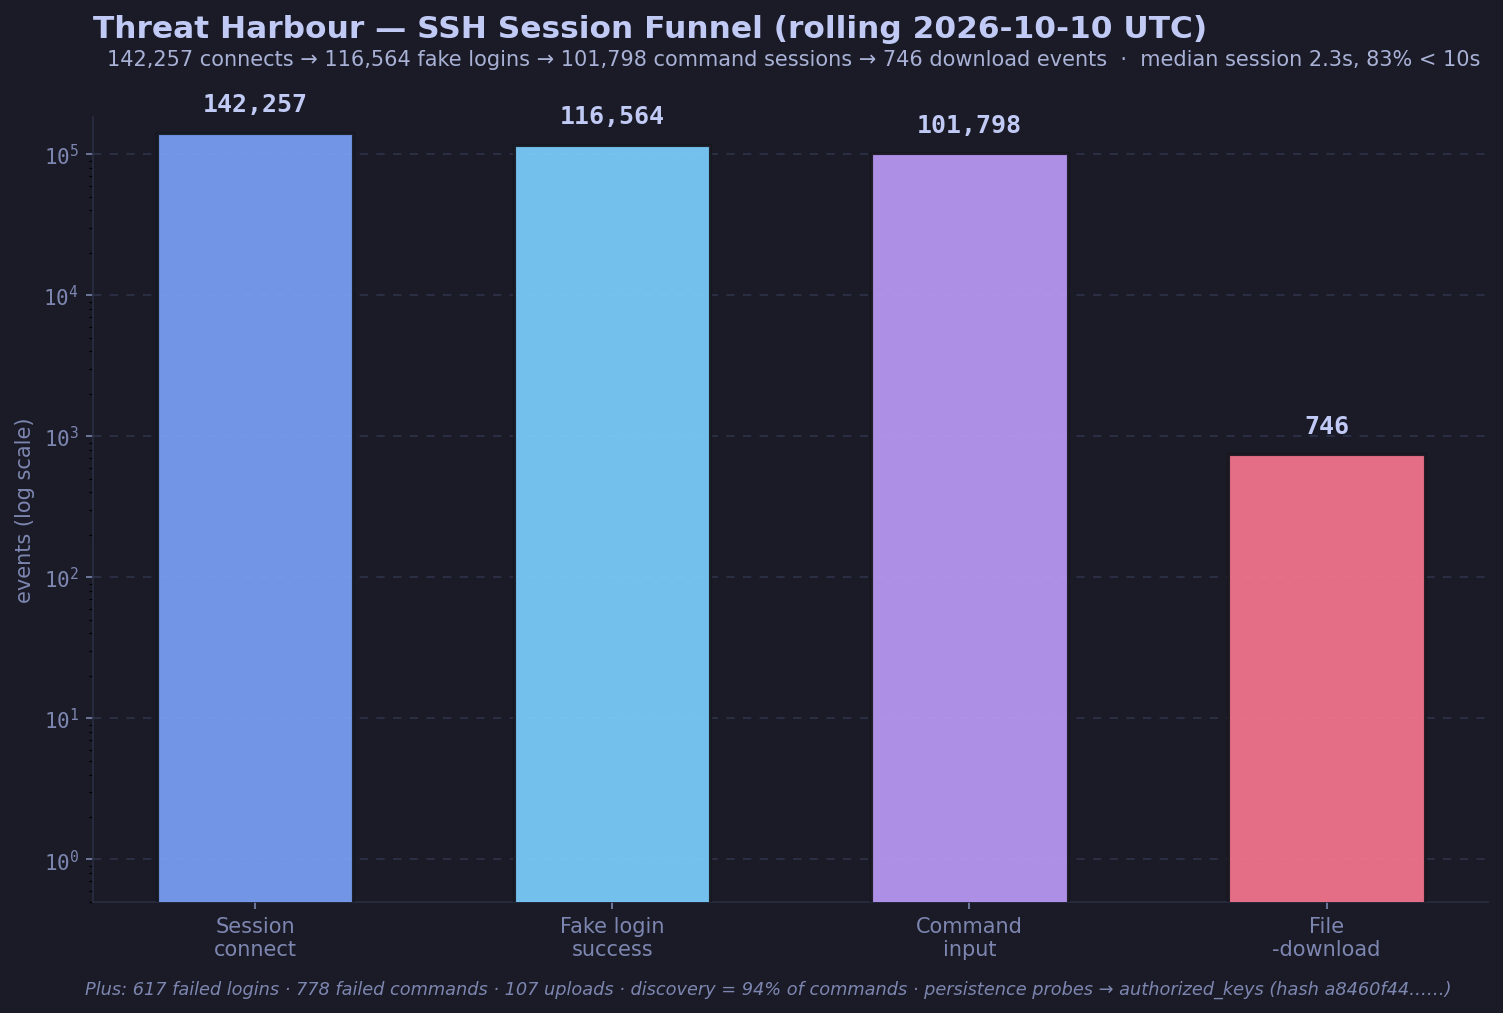
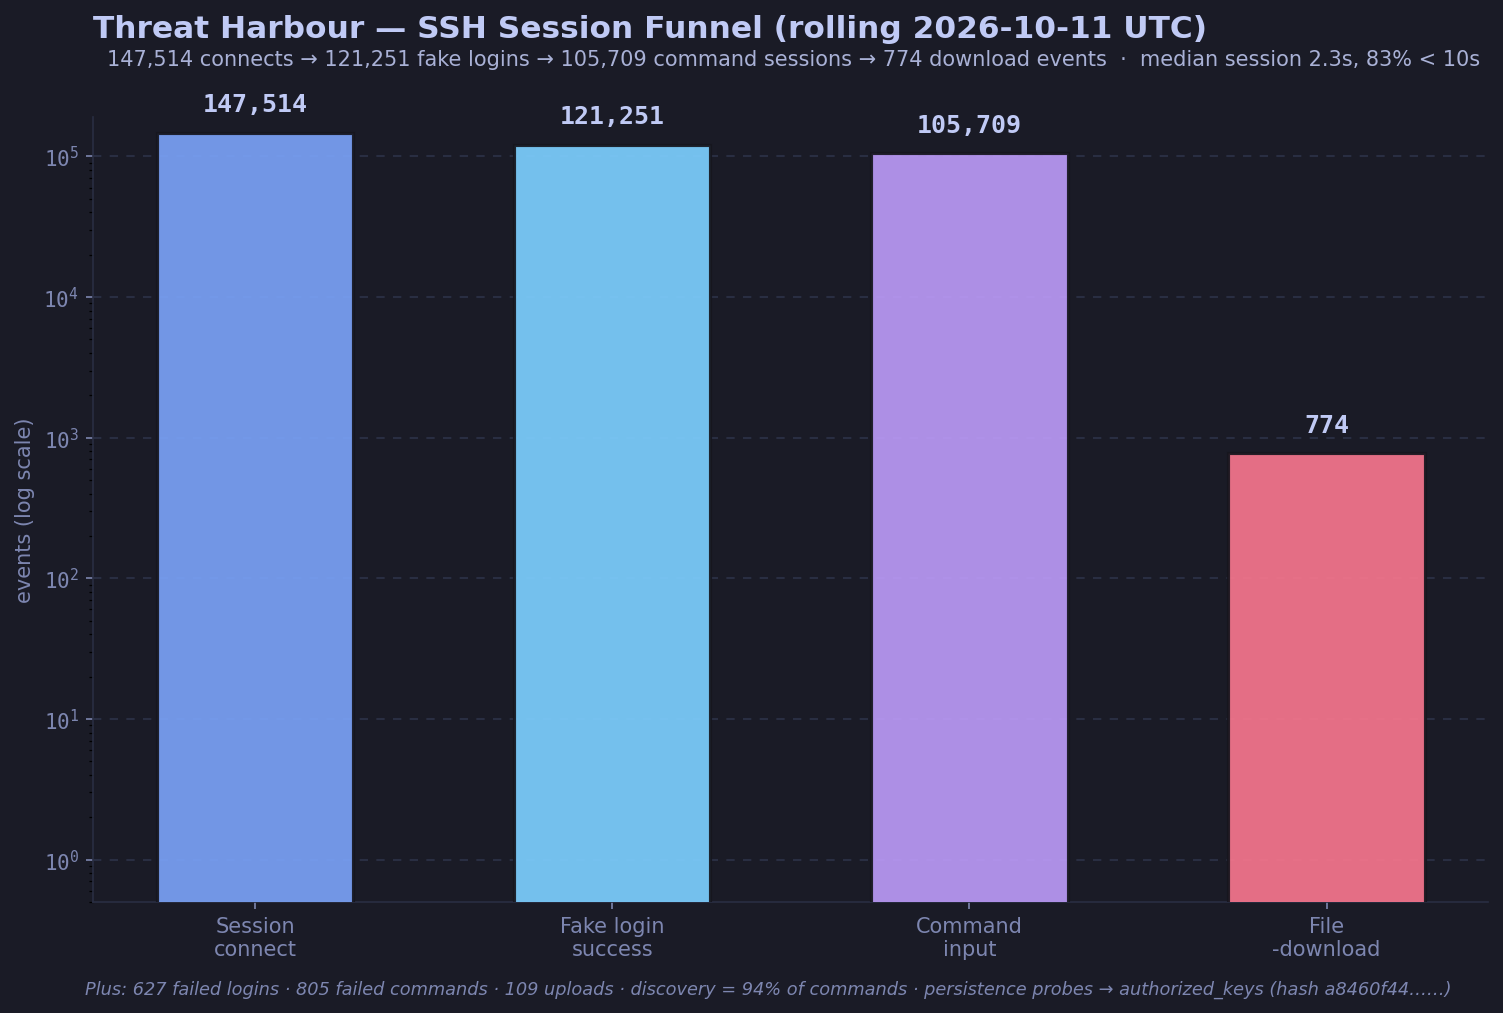
Daily metrics: 1,039,108 events (automated)

diff --git a/analysis/summary.md b/analysis/summary.md
@@ -1,13 +1,13 @@
-# Analysis summary (rolling snapshot, cutoff 2026-10-10T04:47:55Z)
+# Analysis summary (rolling snapshot, cutoff 2026-10-11T04:33:03Z)
 
 Sensor is **still running** — this file regenerates every 24 hours.
 Observation: `2026-08-27` → `ongoing`. Numbers below are a snapshot at
-`2026-10-10T04:47:55Z` (1,000,239 events).
+`2026-10-11T04:33:03Z` (1,039,108 events).
 
 ## Source
 
 - Cowrie JSONL on sensor: `/home/jack/honeypot/var/log/cowrie/cowrie.json*`
-  (45 files, 9 malformed lines) — the same files Promtail ships to Loki
+  (46 files, 9 malformed lines) — the same files Promtail ships to Loki
   (`job="cowrie"`).
 - Parser: `scripts/parse_remote.py` (stdlib only, deployed fresh each run);
   renderer: `scripts/render.py`. Aggregates only. Raw logs stay on the
@@ -17,22 +17,21 @@ Observation: `2026-08-27` → `ongoing`. Numbers below are a snapshot at
 
 | Metric | Value |
 |---|---|
-| Total events | 1,000,239 |
-| Unique source IPs | 5,522 |
-| Sessions (`cowrie.session.connect`) | 142,257 |
-| SSH events | 1,000,239 (100%) |
-| Fake successful logins (`cowrie.login.success`) | 116,564 |
-| Failed logins | 617 |
-| Command-input events | 101,798 (+778 `command.failed`) |
-| File-download events | 746 |
-| File-upload events | 107 |
-| Session duration median (n=142,036 matched close) | 2.3s; 118,047 < 10s; max ~18,022s |
+| Total events | 1,039,108 |
+| Unique source IPs | 5,614 |
+| Sessions (`cowrie.session.connect`) | 147,514 |
+| SSH events | 1,039,108 (100%) |
+| Fake successful logins (`cowrie.login.success`) | 121,251 |
+| Failed logins | 627 |
+| Command-input events | 105,709 (+805 `command.failed`) |
+| File-download events | 774 |
+| File-upload events | 109 |
+| Session duration median (n=147,293 matched close) | 2.3s; 122,860 < 10s; max ~18,022s |
 
 ## Events per UTC day
 
 | Day (UTC) | Events |
 |---|---|
-| `2026-09-11` | 3,711 |
 | `2026-09-12` | 3,333 |
 | `2026-09-13` | 6,459 |
 | `2026-09-14` | 3,525 |
@@ -61,10 +60,11 @@ Observation: `2026-08-27` → `ongoing`. Numbers below are a snapshot at
 | `2026-10-07` | 43,716 |
 | `2026-10-08` | 64,154 |
 | `2026-10-09` | 57,818 |
-| `2026-10-10` | 3,436 |
+| `2026-10-10` | 28,596 |
+| `2026-10-11` | 13,709 |
 
 <details>
-<summary>Older days (15 days, click to expand)</summary>
+<summary>Older days (16 days, click to expand)</summary>
 
 | Day (UTC) | Events |
 |---|---|
@@ -83,67 +83,68 @@ Observation: `2026-08-27` → `ongoing`. Numbers below are a snapshot at
 | `2026-09-08` | 44,543 |
 | `2026-09-09` | 23,409 |
 | `2026-09-10` | 44,701 |
+| `2026-09-11` | 3,711 |
 
 </details>
 
-`2026-10-10` is partial at cutoff — do not annualize.
+`2026-10-11` is partial at cutoff — do not annualize.
 
 ### Top usernames
 
 | # | Value | Tries |
 |---|---|---|
-| 1 | `root` | 41,472 |
-| 2 | `ubuntu` | 5,889 |
-| 3 | `admin` | 3,607 |
-| 4 | `user` | 2,235 |
-| 5 | `deploy` | 1,219 |
-| 6 | `test` | 1,015 |
-| 7 | `user1` | 619 |
-| 8 | `345gs5662d34` | 617 |
-| 9 | `claude` | 564 |
-| 10 | `debian` | 513 |
+| 1 | `root` | 42,515 |
+| 2 | `ubuntu` | 6,159 |
+| 3 | `admin` | 3,692 |
+| 4 | `user` | 2,287 |
+| 5 | `deploy` | 1,242 |
+| 6 | `test` | 1,036 |
+| 7 | `345gs5662d34` | 641 |
+| 8 | `user1` | 631 |
+| 9 | `claude` | 574 |
+| 10 | `debian` | 523 |
 
 ### Top passwords
 
 | # | Value | Tries |
 |---|---|---|
-| 1 | `123456` | 4,469 |
-| 2 | `1234` | 2,496 |
-| 3 | `123` | 2,193 |
-| 4 | `admin` | 1,421 |
-| 5 | `12345678` | 1,222 |
-| 6 | `1` | 1,092 |
-| 7 | `password` | 978 |
-| 8 | `12345` | 909 |
-| 9 | `root` | 902 |
-| 10 | `123456789` | 729 |
+| 1 | `123456` | 4,555 |
+| 2 | `1234` | 2,558 |
+| 3 | `123` | 2,243 |
+| 4 | `admin` | 1,465 |
+| 5 | `12345678` | 1,250 |
+| 6 | `1` | 1,115 |
+| 7 | `password` | 996 |
+| 8 | `12345` | 933 |
+| 9 | `root` | 920 |
+| 10 | `123456789` | 747 |
 
 ### Top commands
 
 | # | Value | Tries |
 |---|---|---|
-| 1 | `uname -s -v -n -r -m` | 86,811 |
-| 2 | `export PATH=/usr/local/sbin:/usr/local/bin:/usr/sbin:/usr/bi…` | 2,084 |
-| 3 | `hostname` | 1,739 |
-| 4 | `/bin/./uname -s -v -n -r -m` | 1,626 |
-| 5 | `uname -a` | 986 |
-| 6 | `whoami` | 798 |
+| 1 | `uname -s -v -n -r -m` | 90,391 |
+| 2 | `export PATH=/usr/local/sbin:/usr/local/bin:/usr/sbin:/usr/bi…` | 2,189 |
+| 3 | `hostname` | 1,750 |
+| 4 | `/bin/./uname -s -v -n -r -m` | 1,715 |
+| 5 | `uname -a` | 1,002 |
+| 6 | `whoami` | 806 |
 | 7 | `export PATH=/usr/local/sbin:/usr/local/bin:/usr/sbin:/usr/bi…` | 722 |
-| 8 | `cd ~; chattr -ia .ssh; lockr -ia .ssh` | 658 |
-| 9 | `cd ~ && rm -rf .ssh && mkdir .ssh && echo "ssh-rsa AAAAB3Nza…` | 637 |
-| 10 | `pwd` | 629 |
+| 8 | `cd ~; chattr -ia .ssh; lockr -ia .ssh` | 682 |
+| 9 | `cd ~ && rm -rf .ssh && mkdir .ssh && echo "ssh-rsa AAAAB3Nza…` | 661 |
+| 10 | `pwd` | 633 |
 
 ### Command categories
 
 | Category | Events |
 |---|---|
-| `destructive` | 3,532 |
-| `discovery` | 96,086 |
-| `downloader` | 37 |
+| `destructive` | 3,663 |
+| `discovery` | 99,826 |
+| `downloader` | 39 |
 | `empty` | 7 |
-| `other` | 1,158 |
-| `persistence-privilege` | 47 |
-| `shell-exec` | 931 |
+| `other` | 1,189 |
+| `persistence-privilege` | 49 |
+| `shell-exec` | 936 |
 
 ## Limitations that shape these numbers
 

diff --git a/README.md b/README.md
@@ -19,28 +19,28 @@ Use it to:
 No attribution, no hype — just counts of what hit the sensor, refreshed daily.
 
 <!-- METRICS:START -->
-## Collected Data — refreshed every 24 hours (last run `2026-10-10 UTC`)
+## Collected Data — refreshed every 24 hours (last run `2026-10-11 UTC`)
 
 `2026-08-27` → `ongoing` · Cowrie `3.0.13` · SSH-only · `ap-hyderabad-1`.
 
 | Total events | Unique IPs | Sessions | Fake logins | Commands | Downloads (+uploads) |
 |---|---|---|---|---|---|
-| `1,000,239` | `5,522` | `142,257` | `116,564` / 617 failed | `101,798` (+778 failed) | `746` (+107 uploads) |
+| `1,039,108` | `5,614` | `147,514` | `121,251` / 627 failed | `105,709` (+805 failed) | `774` (+109 uploads) |
 
 | # | Top username | Top password | Top command |
 |---|---|---|---|
-| 1 | `root` (41,472) | `123456` (4,469) | `uname -s -v -n -r -m` (86,811) |
-| 2 | `ubuntu` (5,889) | `1234` (2,496) | `export PATH=/usr/local/sbin:/usr/local/b…` (2,084) |
-| 3 | `admin` (3,607) | `123` (2,193) | `hostname` (1,739) |
-| 4 | `user` (2,235) | `admin` (1,421) | `/bin/./uname -s -v -n -r -m` (1,626) |
-| 5 | `deploy` (1,219) | `12345678` (1,222) | `uname -a` (986) |
+| 1 | `root` (42,515) | `123456` (4,555) | `uname -s -v -n -r -m` (90,391) |
+| 2 | `ubuntu` (6,159) | `1234` (2,558) | `export PATH=/usr/local/sbin:/usr/local/b…` (2,189) |
+| 3 | `admin` (3,692) | `123` (2,243) | `hostname` (1,750) |
+| 4 | `user` (2,287) | `admin` (1,465) | `/bin/./uname -s -v -n -r -m` (1,715) |
+| 5 | `deploy` (1,242) | `12345678` (1,250) | `uname -a` (1,002) |
 
 Key findings:
 
 - Median session `2.3s` (83% under 10s) — mostly automated scanning, not humans.
 - `94%` of commands are discovery/fingerprinting (`uname`, `hostname`, `whoami`).
 - Repeated persistence probes writing toward `authorized_keys` (hash `a8460f44……`, content withheld).
-- Busiest /16 by volume: `109.160.0.0/16` (614,997 events) — volume only, never attribution.
+- Busiest /16 by volume: `109.160.0.0/16` (634,921 events) — volume only, never attribution.
 
 ![Session funnel](diagrams/session-funnel.png)
 ![Activity timeline](diagrams/activity-timeline.png)

diff --git a/evidence/manifest.md b/evidence/manifest.md
@@ -1,12 +1,12 @@
-# Evidence manifest (rolling snapshot, cutoff 2026-10-10T04:47:55Z)
+# Evidence manifest (rolling snapshot, cutoff 2026-10-11T04:33:03Z)
 
 Raw Cowrie logs are **retained on the sensor only** and are not published.
 This manifest lets a reviewer re-derive `analysis/metrics.json`.
 
 ## Dataset
 
-- Host path: `/home/jack/honeypot/var/log/cowrie/cowrie.json*` (45 files)
-- Total lines: 1,000,239 (9 malformed)
+- Host path: `/home/jack/honeypot/var/log/cowrie/cowrie.json*` (46 files)
+- Total lines: 1,039,108 (9 malformed)
 - Cowrie: `3.0.13`
 - Collector: Promtail `2.9.4` → Loki `2.9.4` (`job="cowrie"`), Grafana `10.2.3`
 
@@ -14,7 +14,7 @@ This manifest lets a reviewer re-derive `analysis/metrics.json`.
 
 | File | Lines |
 |---|---|
-| `cowrie.json` | 3,436 |
+| `cowrie.json` | 13,709 |
 | `cowrie.json.2026-08-27` | 964 |
 | `cowrie.json.2026-08-28` | 15,483 |
 | `cowrie.json.2026-08-29` | 17,457 |
@@ -59,6 +59,7 @@ This manifest lets a reviewer re-derive `analysis/metrics.json`.
 | `cowrie.json.2026-10-07` | 43,716 |
 | `cowrie.json.2026-10-08` | 64,154 |
 | `cowrie.json.2026-10-09` | 57,818 |
+| `cowrie.json.2026-10-10` | 28,596 |
 
 ## What is / is not in this repo
 
